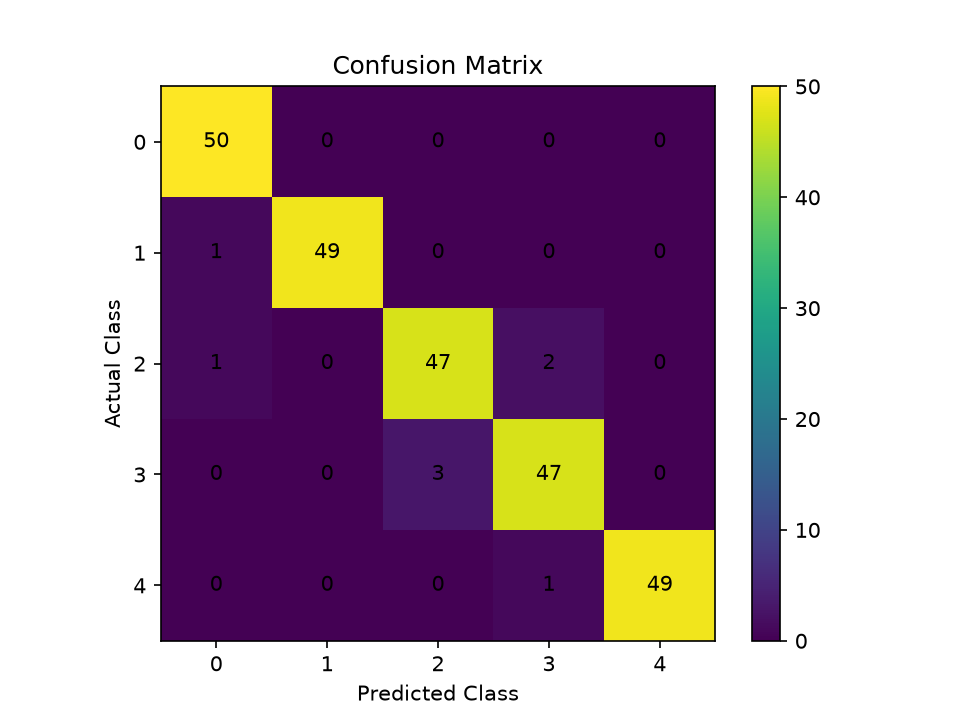
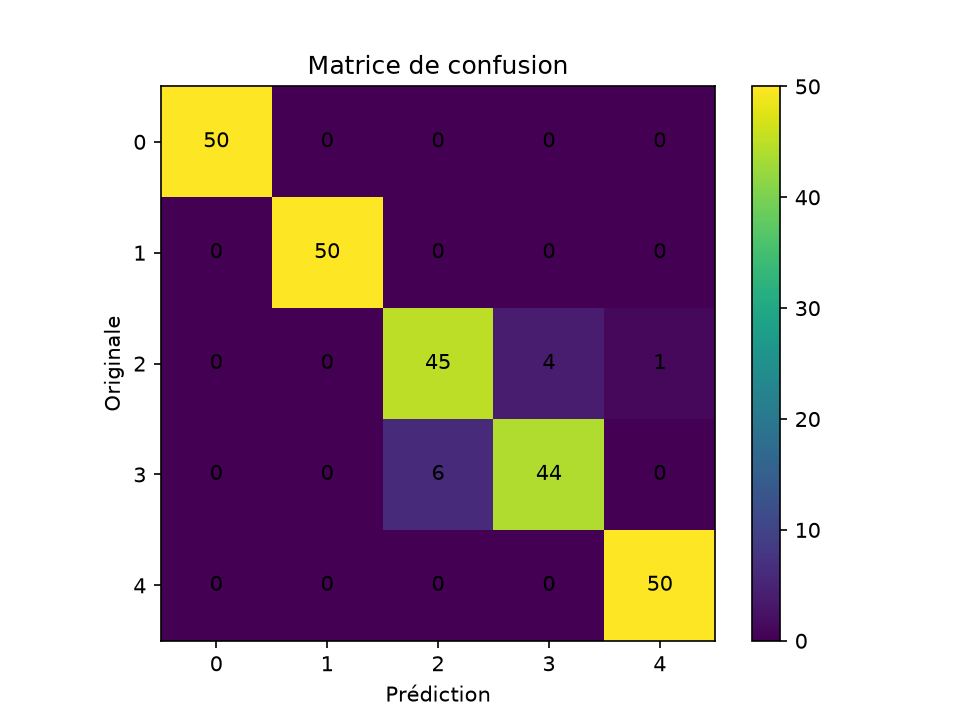
Tue Nov 24 11:12:53 AM CET 2026

diff --git a/classification.py b/classification.py
@@ -280,14 +280,14 @@ if __name__ == "__main__":
     prediction = predict(model, dt_patches)
     confusion_matrix = calculate_confusion_matrix(dt_labels, prediction, classes_count)
     print(f"Precision on DT: {accuracy(dt_labels, prediction):.3f}")
-    print("Confusion matrix:\n", confusion_matrix)
+    print("Confusion Matrix:\n", confusion_matrix)
 
     plt.figure()
     plt.imshow(confusion_matrix)
     plt.colorbar()
-    plt.xlabel("Predicted Class")
-    plt.ylabel("Actual Class")
-    plt.title("Confusion Matrix")
+    plt.xlabel("Prédiction")
+    plt.ylabel("Originale")
+    plt.title("Matrice de confusion")
     for i in range(classes_count):
         for j in range(classes_count):
             plt.text(j, i, confusion_matrix[i, j], ha="center", va="center")
@@ -295,10 +295,10 @@ if __name__ == "__main__":
 
     # Test robustness agains noise and blur
     sigmas = [0, 5, 10, 20, 30, 50]
-    radiuses = [0, 0.5, 1, 1.5, 2, 3]
     accuracy_noise = [
         accuracy(dt_labels, predict(model, add_noise(dt_patches, s))) for s in sigmas
     ]
+    radiuses = [0, 0.5, 1, 1.5, 2, 3]
     accuracy_blur = [
         accuracy(dt_labels, predict(model, blur_patches(dt_patches, r)))
         for r in radiuses
@@ -307,13 +307,13 @@ if __name__ == "__main__":
     fig, (ax1, ax2) = plt.subplots(1, 2, figsize=(10, 4))
 
     ax1.plot(sigmas, accuracy_noise, "o-")
-    ax1.set_xlabel("Standard deviation of gaussian blue")
-    ax1.set_ylabel("Precision on DT")
-    ax1.set_title("Robustness to noise")
+    ax1.set_xlabel("Ecart-type du bruit gaussien (niveaux de gris)")
+    ax1.set_ylabel("Précision sur DT")
+    ax1.set_title("Robustesse au bruit")
 
     ax2.plot(radiuses, accuracy_blur, "o-")
-    ax2.set_xlabel("radius of gaussian blur (pixels)")
-    ax2.set_title("Robustness to blur")
+    ax2.set_xlabel("Rayon du flou gaussien (pixels)")
+    ax2.set_title("Robustesse au flou")
 
     plt.tight_layout()
     plt.savefig("robustness.png", dpi=150)
